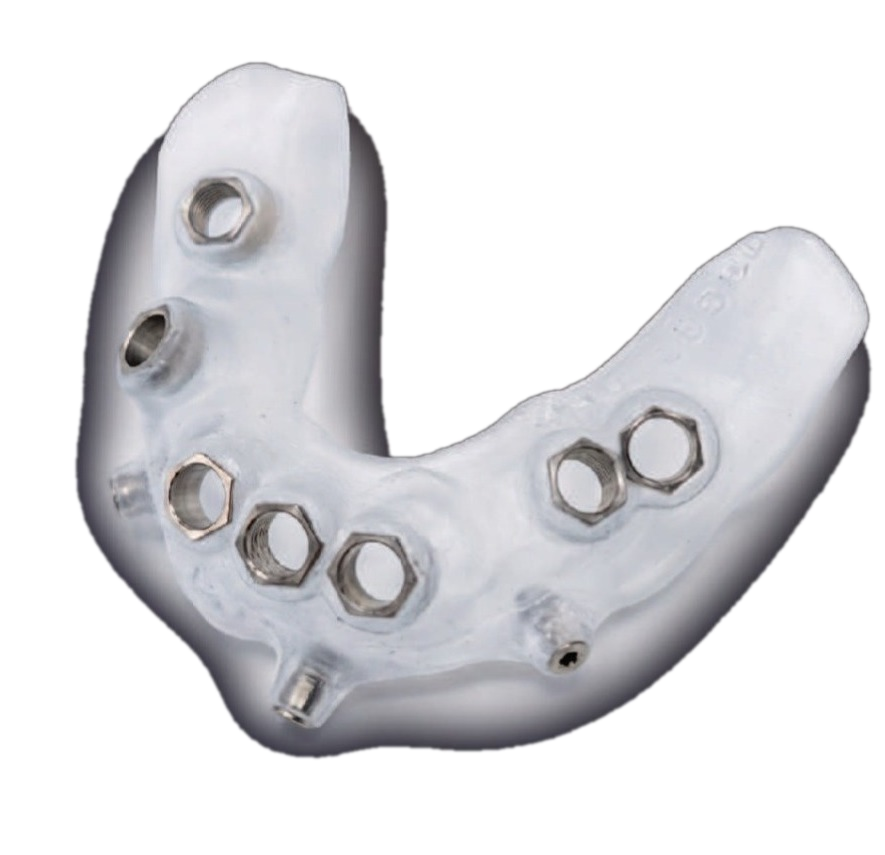
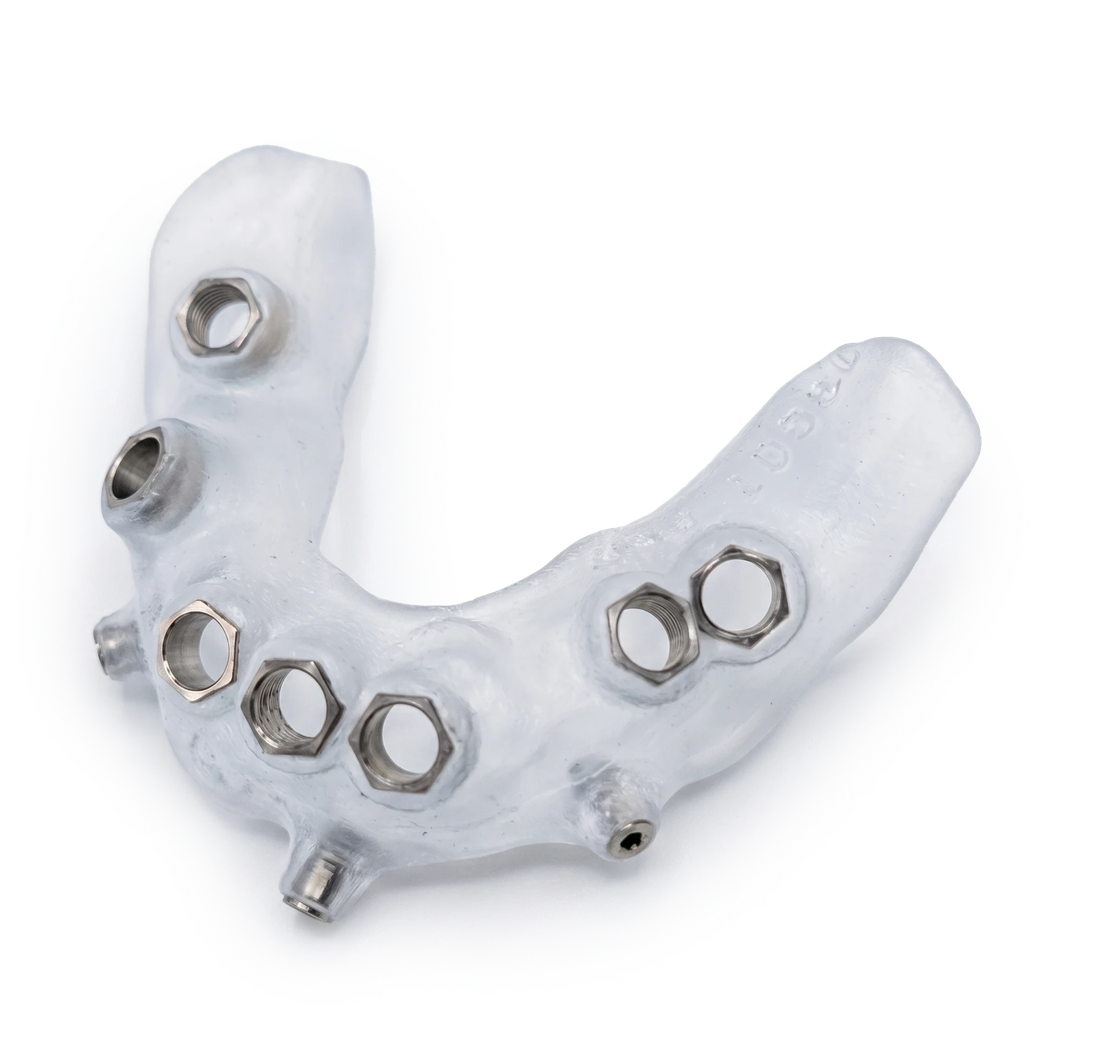
Visor de portada: nueva primera diapositiva con la barra de oro y puente ceramico sobre modelo; ferula quirurgica en alta resolucion (2000px) tanto en el visor como en las tarjetas de carga inmediata
Claude-Session: https://claude.ai/code/session_01G9ySE2q82eBR5v7f2bLYwG

diff --git a/index.html b/index.html
@@ -364,7 +364,7 @@ footer .c { color:var(--mut); font-size:.78rem; flex:1; min-width:240px; line-he
     <h1>Todo lo que necesitas<br><i>para tu pr&oacute;ximo caso.</i></h1>
     <p class="lead">Soluciones prot&eacute;sicas de alta precisi&oacute;n, fabricadas en Madrid para cl&iacute;nicas y odont&oacute;logos de toda Espa&ntilde;a.</p>
     <div class="search"><input type="search" id="buscador" autocomplete="off" placeholder="&iquest;Qu&eacute; trabajo buscas? (ej. corona, f&eacute;rula, blender...)" aria-label="Buscar trabajo"><button type="button">Buscar</button></div>
-    <div class="hstatus" id="hero-st" aria-hidden="true">Fresando estructura CAD-CAM</div>
+    <div class="hstatus" id="hero-st" aria-hidden="true">Preparando modelo de trabajo</div>
     <div class="chips"><span>O navega por categor&iacute;as:</span>
       <a href="#fija">Pr&oacute;tesis fija</a><a href="#allon">All-on</a><a href="#blender">Blender</a><a href="#carga">Carga inmediata</a><a href="#removible">Removible</a><a href="#estetica">Est&eacute;tica</a><a href="#ortodoncia">Ortodoncia</a>
     </div>
@@ -373,7 +373,8 @@ footer .c { color:var(--mut); font-size:.78rem; flex:1; min-width:240px; line-he
     <div class="hud">
       <div class="frame" aria-hidden="true"><i></i><i></i><i></i><i></i></div>
       <div class="slides">
-        <img class="on" src="img/barra-wire-gold.png" alt="Barra Blender: del dise&ntilde;o 3D a la pieza real" data-cap="Del dise&ntilde;o 3D a la barra fresada &middot; trabajo real del laboratorio" data-st="Fresando estructura CAD-CAM">
+        <img class="on" src="img/barra-oro-cut.png" alt="Barra de oro y puente cer&aacute;mico sobre modelo" data-cap="Barra de oro y puente cer&aacute;mico sobre modelo &middot; trabajo real" data-st="Preparando modelo de trabajo">
+        <img src="img/barra-wire-gold.png" alt="Barra Blender: del dise&ntilde;o 3D a la pieza real" data-cap="Del dise&ntilde;o 3D a la barra fresada &middot; trabajo real del laboratorio" data-st="Fresando estructura CAD-CAM" loading="lazy">
         <img src="img/cad-wire-azul.png" alt="Dise&ntilde;o CAD de rehabilitaci&oacute;n completa" data-cap="Dise&ntilde;o CAD de rehabilitaci&oacute;n completa fija" data-st="Dise&ntilde;ando caso digital" loading="lazy">
         <img src="img/cad-exocad.jpg" class="win" alt="Planificaci&oacute;n digital del caso" data-cap="Planificaci&oacute;n digital del caso &middot; flujo exocad" data-st="Escaneando modelo 3D" loading="lazy">
         <img src="img/cad-barra-azul.png" alt="Barra fresada y anodizada" data-cap="Barra fresada y anodizada &middot; acabado de precisi&oacute;n" data-st="Control de calidad digital" loading="lazy">
@@ -386,7 +387,7 @@ footer .c { color:var(--mut); font-size:.78rem; flex:1; min-width:240px; line-he
       <span class="htag" style="top:22%;left:26%" aria-hidden="true">CAD &middot; 0.02 mm</span>
       <span class="htag" style="top:68%;left:54%" aria-hidden="true">ZIRCONIO &middot; A2</span>
     </div>
-    <figcaption id="hero-cap">Del dise&ntilde;o 3D a la barra fresada &middot; trabajo real del laboratorio</figcaption>
+    <figcaption id="hero-cap">Barra de oro y puente cer&aacute;mico sobre modelo &middot; trabajo real</figcaption>
     <div class="dots" id="hero-dots"></div>
   </figure>
 </div>
